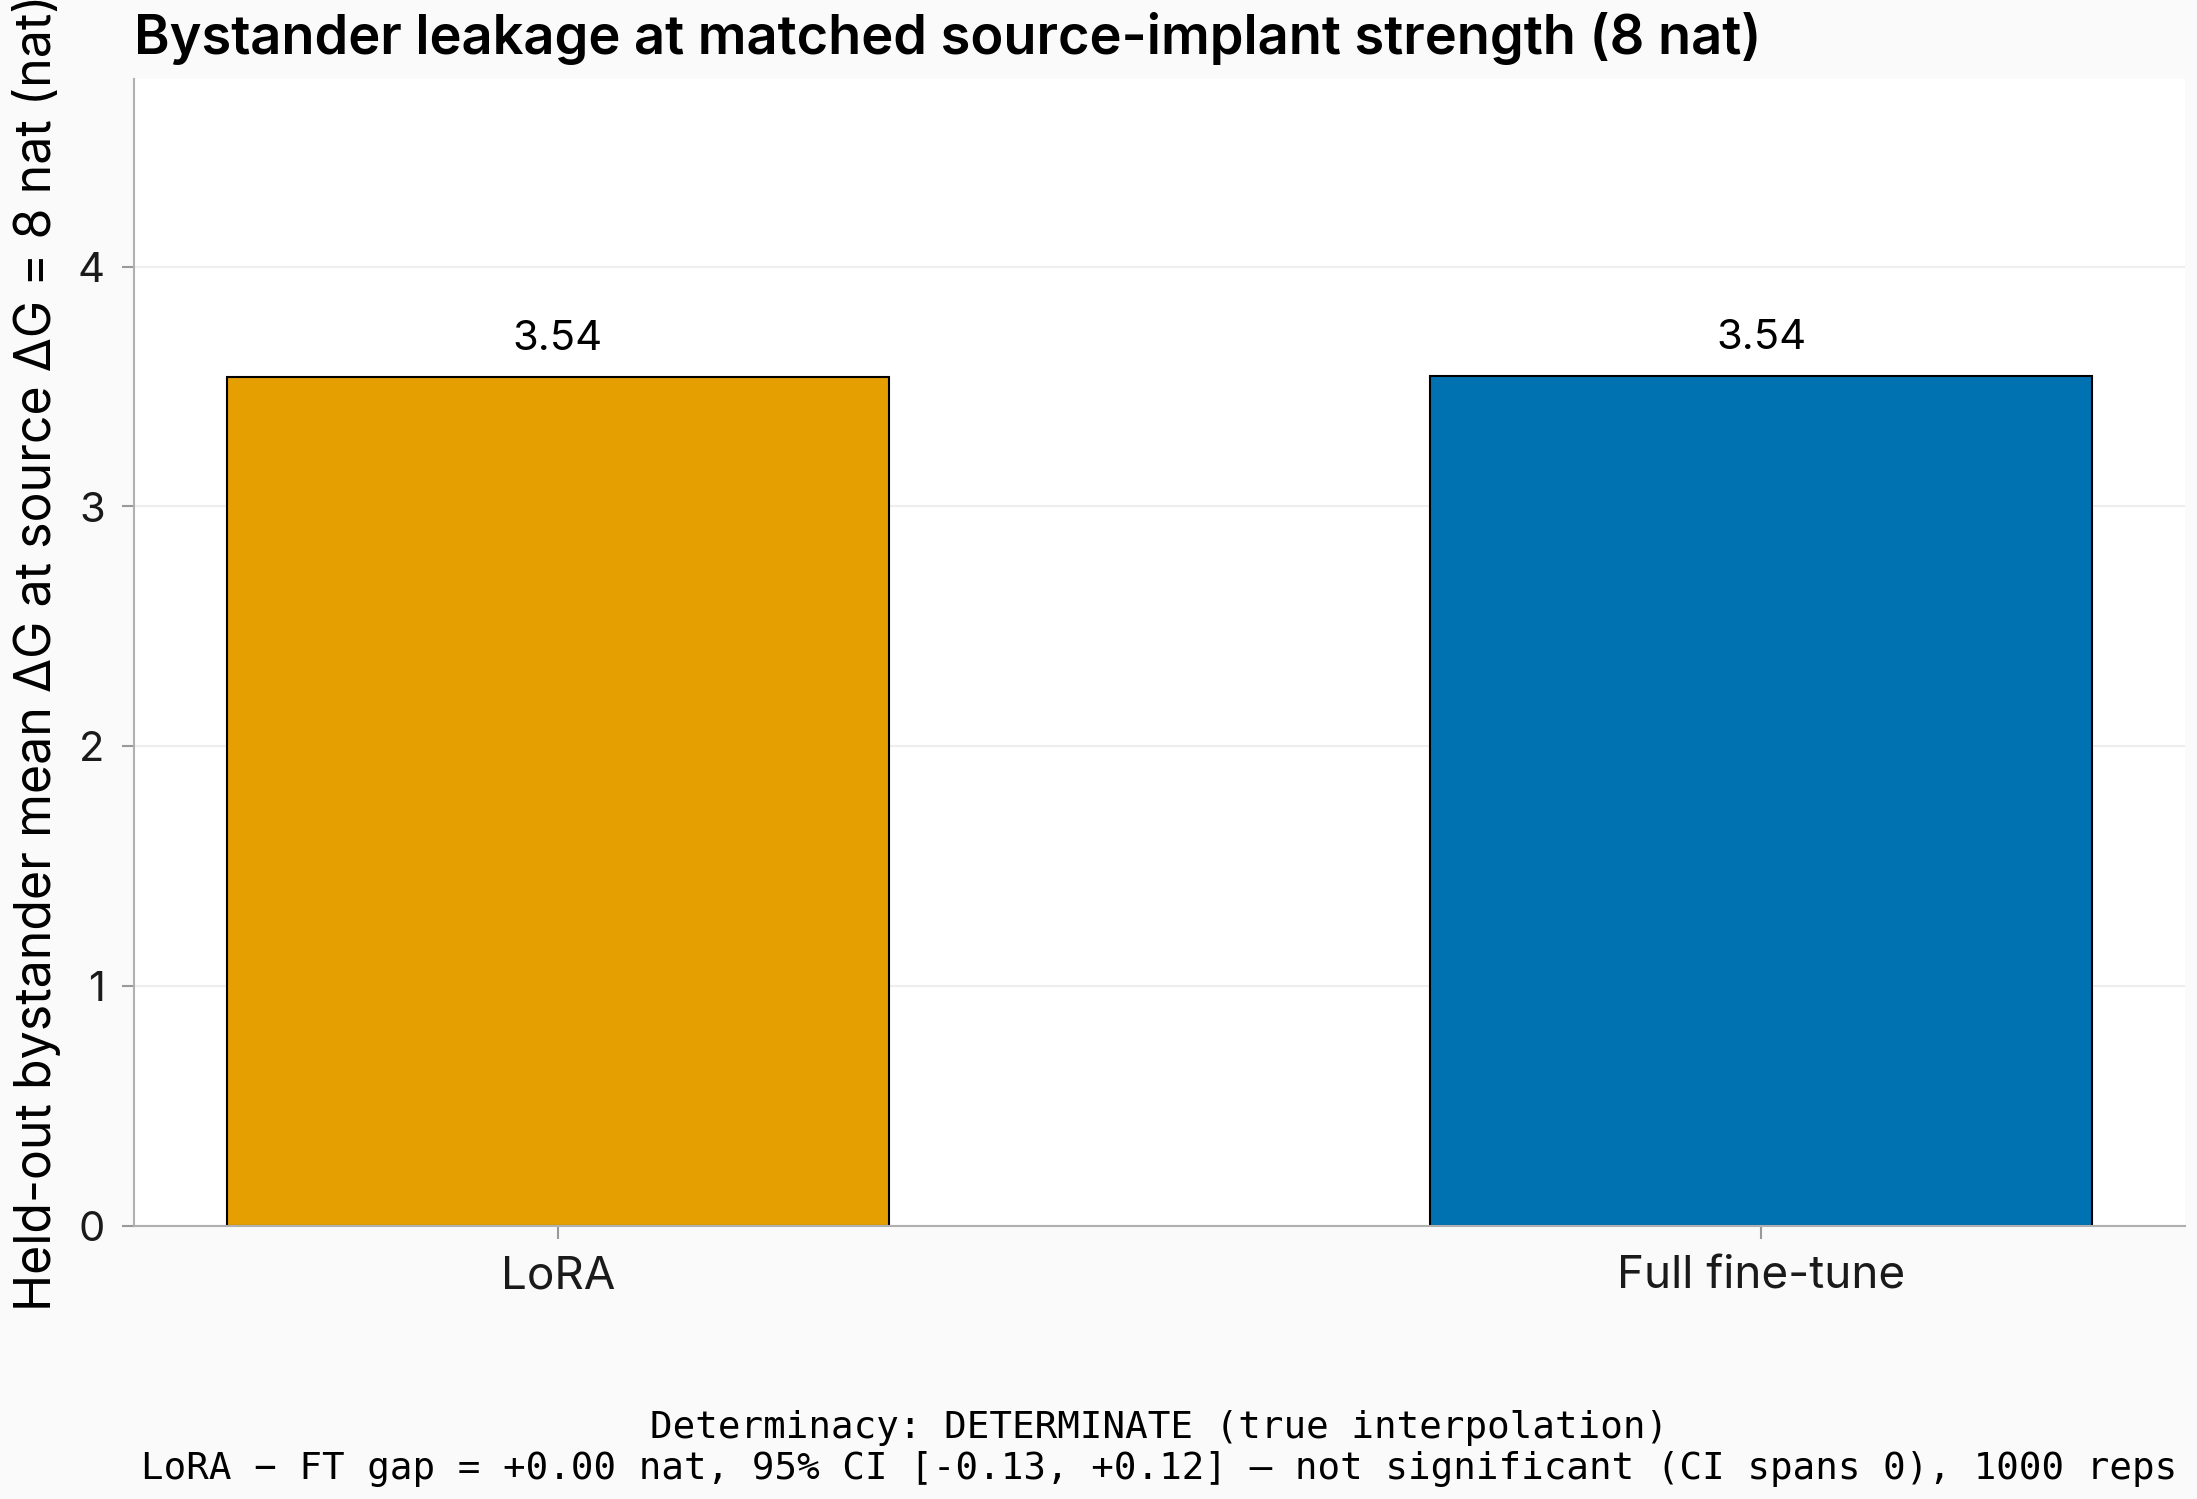
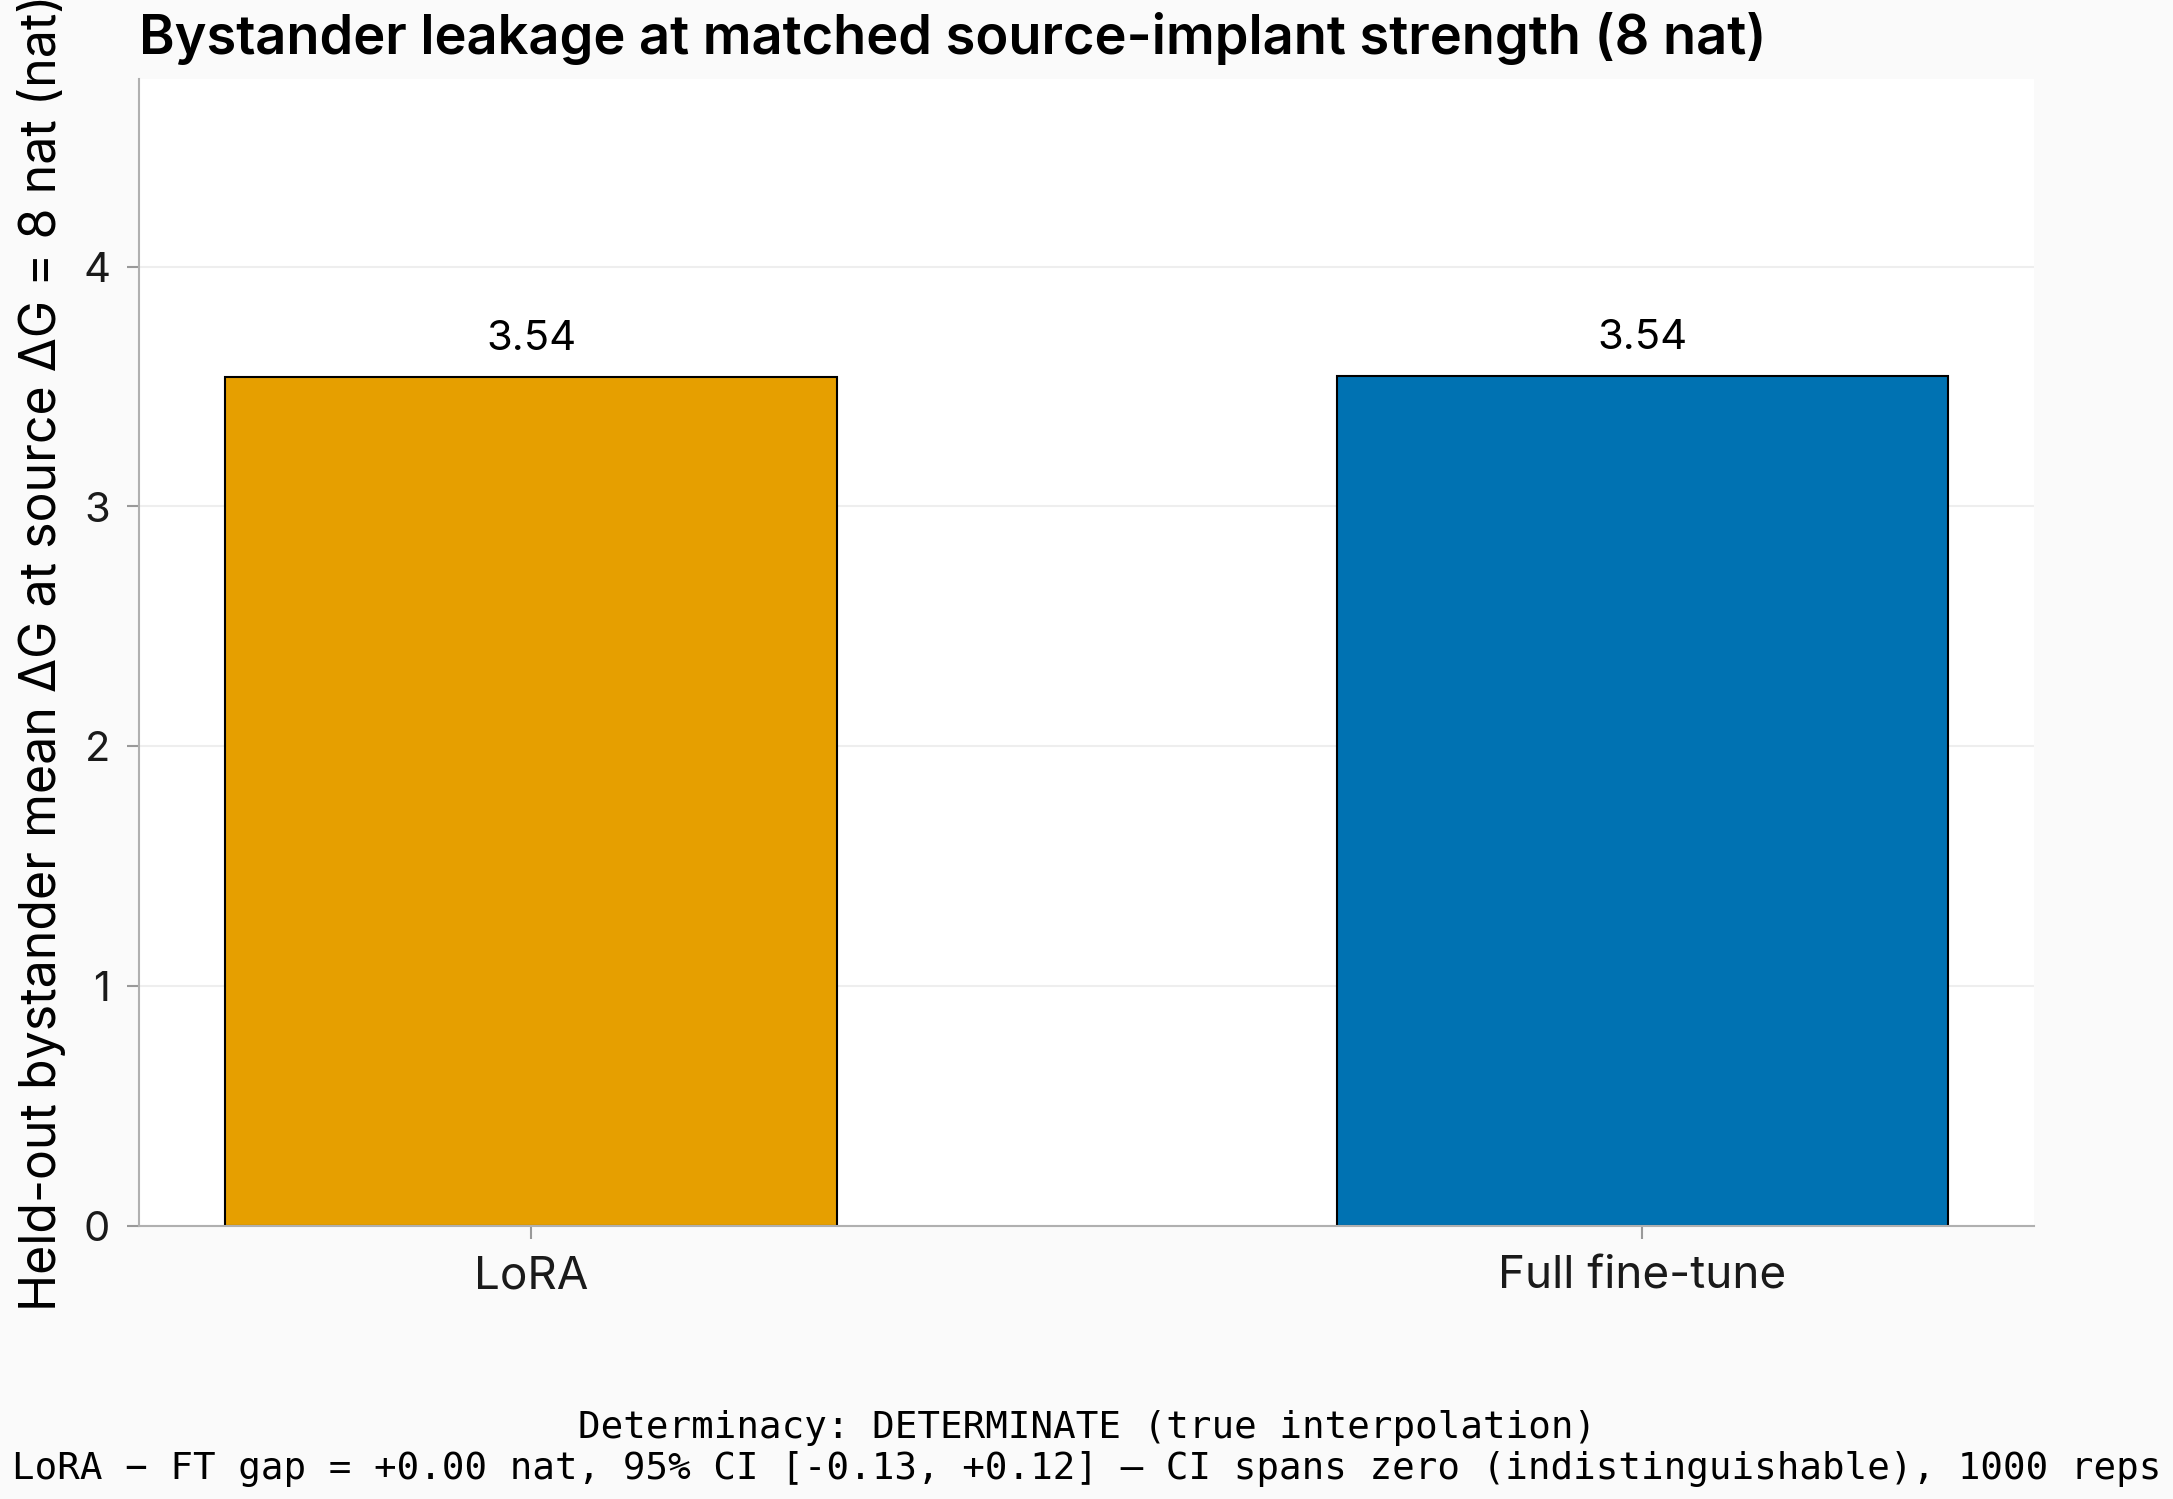
task #514: scrub named-test 'significant' phrasing from matched_rate figure annotation (clean-result-critic Lens 7)
Generated with [Claude Code](https://claude.ai/code)
via [Happy](https://happy.engineering)

diff --git a/scripts/plot_issue_514.py b/scripts/plot_issue_514.py
@@ -461,7 +461,7 @@ def matched_rate_figure(
             if (gap_lo is not None and gap_hi is not None)
             else "CI unavailable"
         )
-        sig = "significant" if excludes_zero else "not significant (CI spans 0)"
+        sig = "CI excludes zero" if excludes_zero else "CI spans zero (indistinguishable)"
         rep_str = f", {int(n_rep)} reps" if n_rep else ""
         gap_line = f"LoRA − FT gap = {float(gap_mean):+.2f} nat, {ci_str} — {sig}{rep_str}"
     annot = f"Determinacy: {verdict}{extrap_note}\n{gap_line}"
